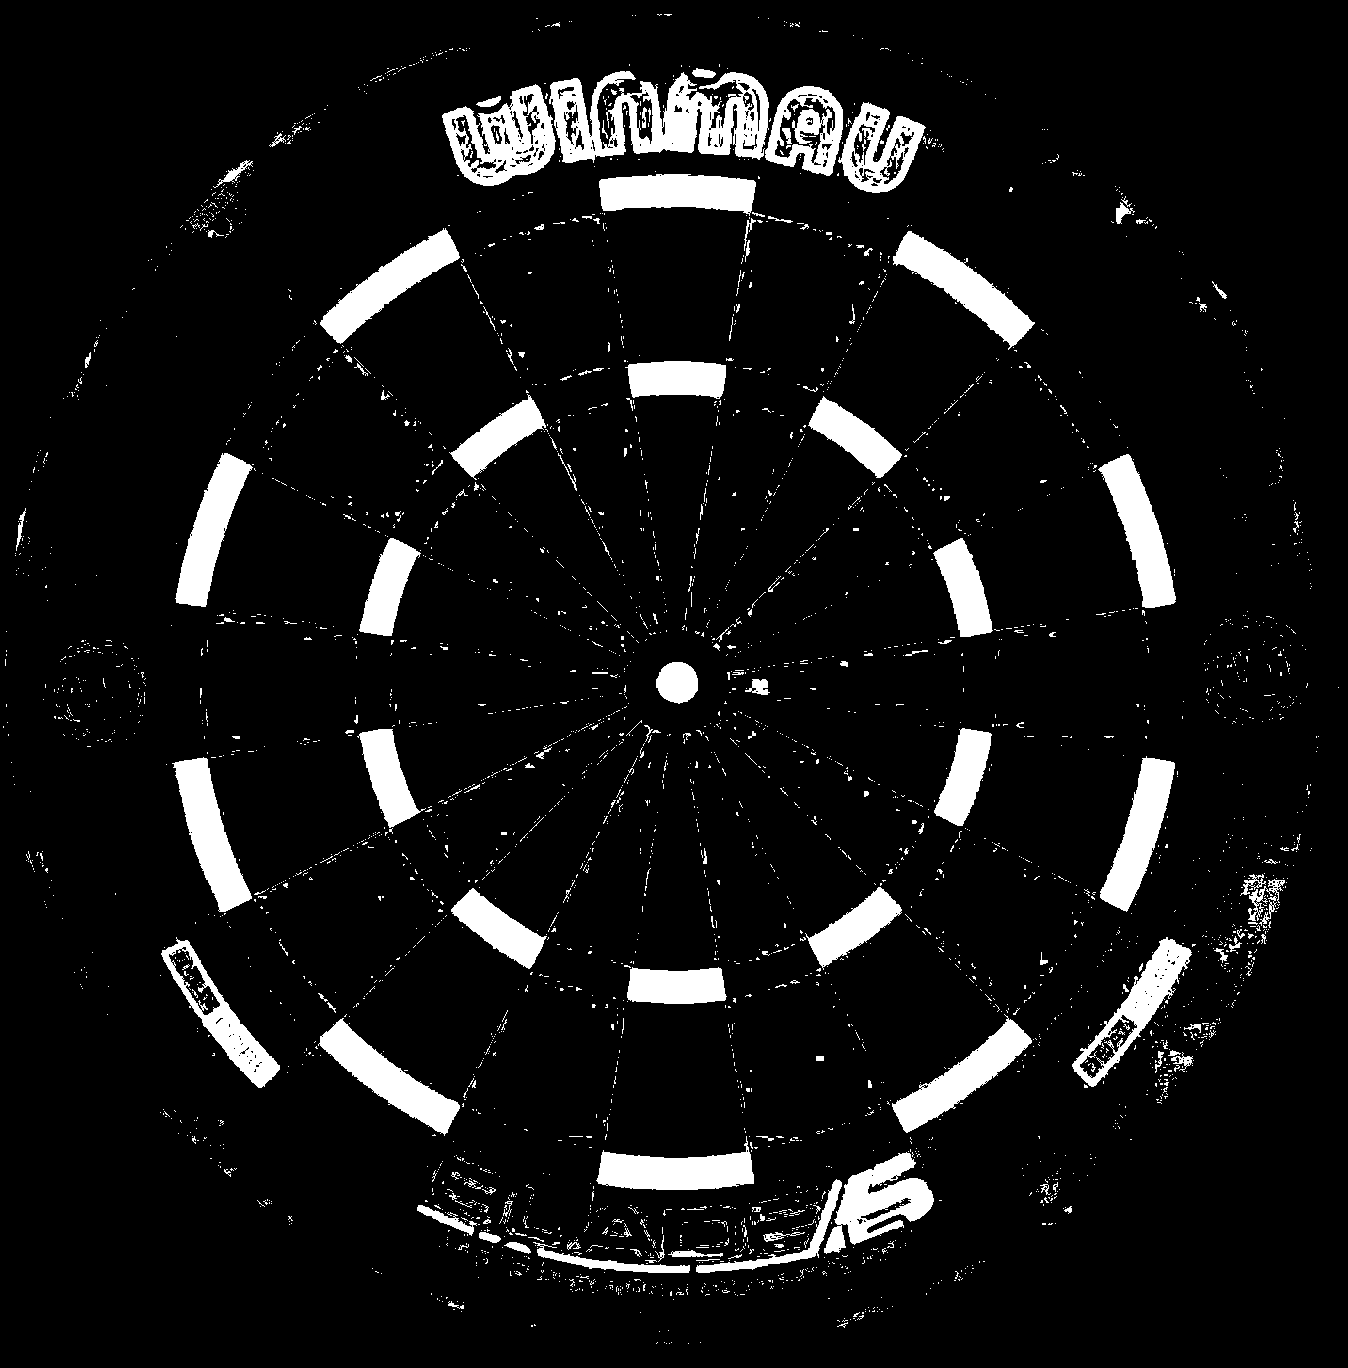
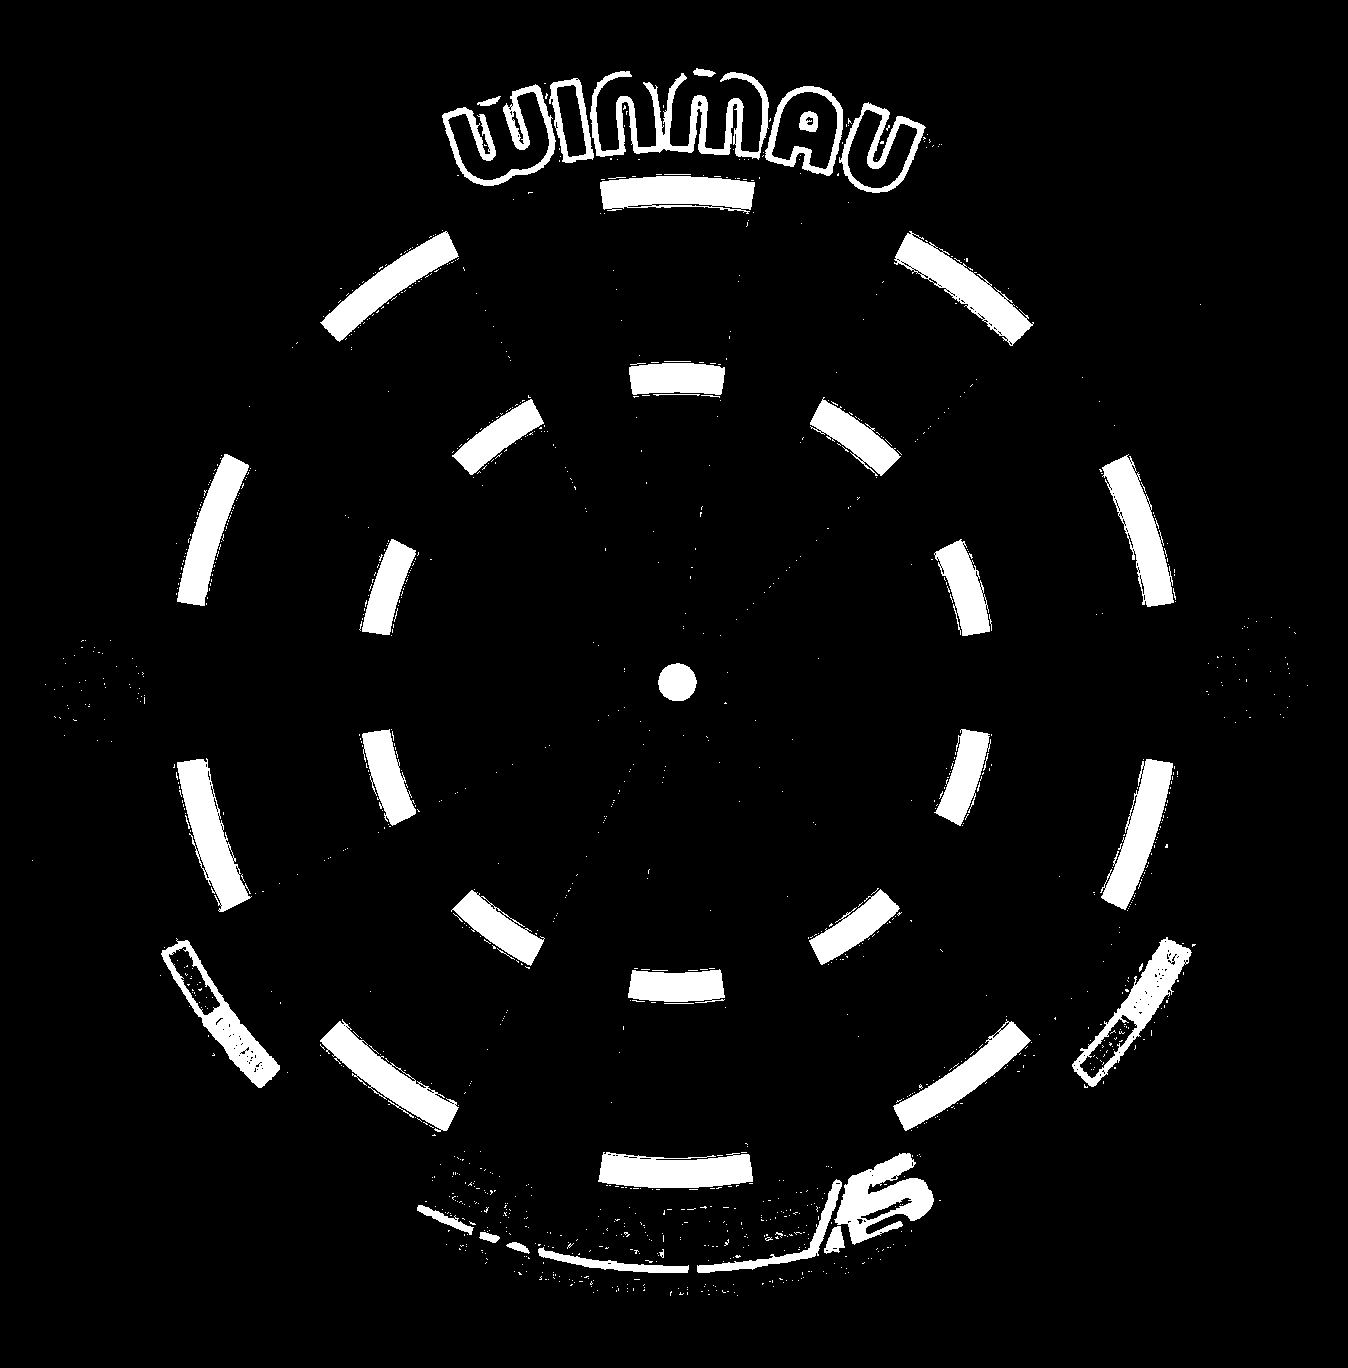
edit python scripts
-added better masks
-detected darts in dart script

diff --git a/Algorithm_Tests/Python/board_detection.py b/Algorithm_Tests/Python/board_detection.py
@@ -11,17 +11,21 @@ import cv2
 #IDEA - To free board from surrounded bits: Make mask with outmost circle of dartboard
 img = cv2.imread('./../../images/Dartboard/Dartboard_0Darts_Bright.png') 
 hd_img = cv2.imread('./../../images/Dart_Board_Color.png') 
+red_mask_ = cv2.imread('./../../images/hd_red_mask.png') 
 
 #cv2.imshow('image normal', img) 
 cv2.imshow('HD image normal', hd_img) 
 
+re1t, red_tresh = cv2.threshold(red_mask_, 100, 255, cv2.THRESH_BINARY)
+cv2.imshow('thesholded red', red_tresh) 
+
 #color separation on image
 img_hsv = cv2.cvtColor(hd_img, cv2.COLOR_BGR2HSV)
-red_mask_1 = cv2.inRange(img_hsv,(0,50,20),(15,255,255))#extract red
-red_mask_2 = cv2.inRange(img_hsv,(165,50,20),(180,255,255))#extract red
+red_mask_1 = cv2.inRange(img_hsv,(0,150,20),(15,255,255))#extract red
+red_mask_2 = cv2.inRange(img_hsv,(165,150,20),(180,255,255))#extract red
 red_mask = red_mask_1 + red_mask_2
  
-green_mask = cv2.inRange(img_hsv,(35,50,20),(80,255,255))#extract green
+green_mask = cv2.inRange(img_hsv,(35,150,20),(80,255,255))#extract green
 black_mask = cv2.inRange(img_hsv,(0,0,0),(255,255,10))#extract black
 white_mask = cv2.inRange(img_hsv,(0,30,20),(30,150,255))#extract white
 
@@ -83,9 +87,6 @@ cv2.imshow('drawn contours', output)
 hd_image, hd_contours, hd_hierachy =cv2.findContours(hd_thresh,cv2.RETR_TREE,cv2.CHAIN_APPROX_SIMPLE)
 cv2.drawContours(hd_img, hd_contours, contourIdx=-1, color=(0, 255, 0), thickness=1, lineType=cv2.LINE_AA)
 cv2.imshow('HD drawn contours', hd_img)
-
-
-
 
 ####Sorting contours --> draw bounding boxes over contour
 contoursSorted_hd = sorted(hd_contours, key=cv2.contourArea, reverse=True)

diff --git a/Algorithm_Tests/Python/dart_detection.py b/Algorithm_Tests/Python/dart_detection.py
@@ -14,8 +14,19 @@ img_3darts = cv2.imread('./../../images/Dartboard/Dartboard_3Darts_Bright.png')
 #make copy to later output detections on rgb image
 output = img_0darts.copy()
 
+
 #make grayscale image
-img_gray = cv2.cvtColor(img_0darts, cv2.COLOR_RGB2GRAY)
+img_gray_0darts = cv2.cvtColor(img_0darts, cv2.COLOR_RGB2GRAY)
+img_gray_3darts = cv2.cvtColor(img_0darts, cv2.COLOR_RGB2GRAY)
+
+diff = cv2.absdiff(img_0darts, img_3darts)
+diff_gray = cv2.cvtColor(diff, cv2.COLOR_RGB2GRAY)
+
+ret, thresh = cv2.threshold(diff_gray, 150, 255, cv2.THRESH_BINARY)
+
+cv2.imshow('isolating darts', diff)
+cv2.imshow('thresholded image', thresh)
+
 
 #try maybe fft with images 0 and 3 darts
 #f = cv2.dft(np.float32(img_0darts), flags=cv2.DFT_COMPLEX_OUTPUT)
@@ -37,4 +48,4 @@ cv2.imshow('erosion subtraction', contours)
 cv2.imshow('image normal', img_0darts) 
 cv2.imshow('grayscale', img_gray) 
 
-cv2.waitKey(0)        
+#cv2.waitKey(0)        
